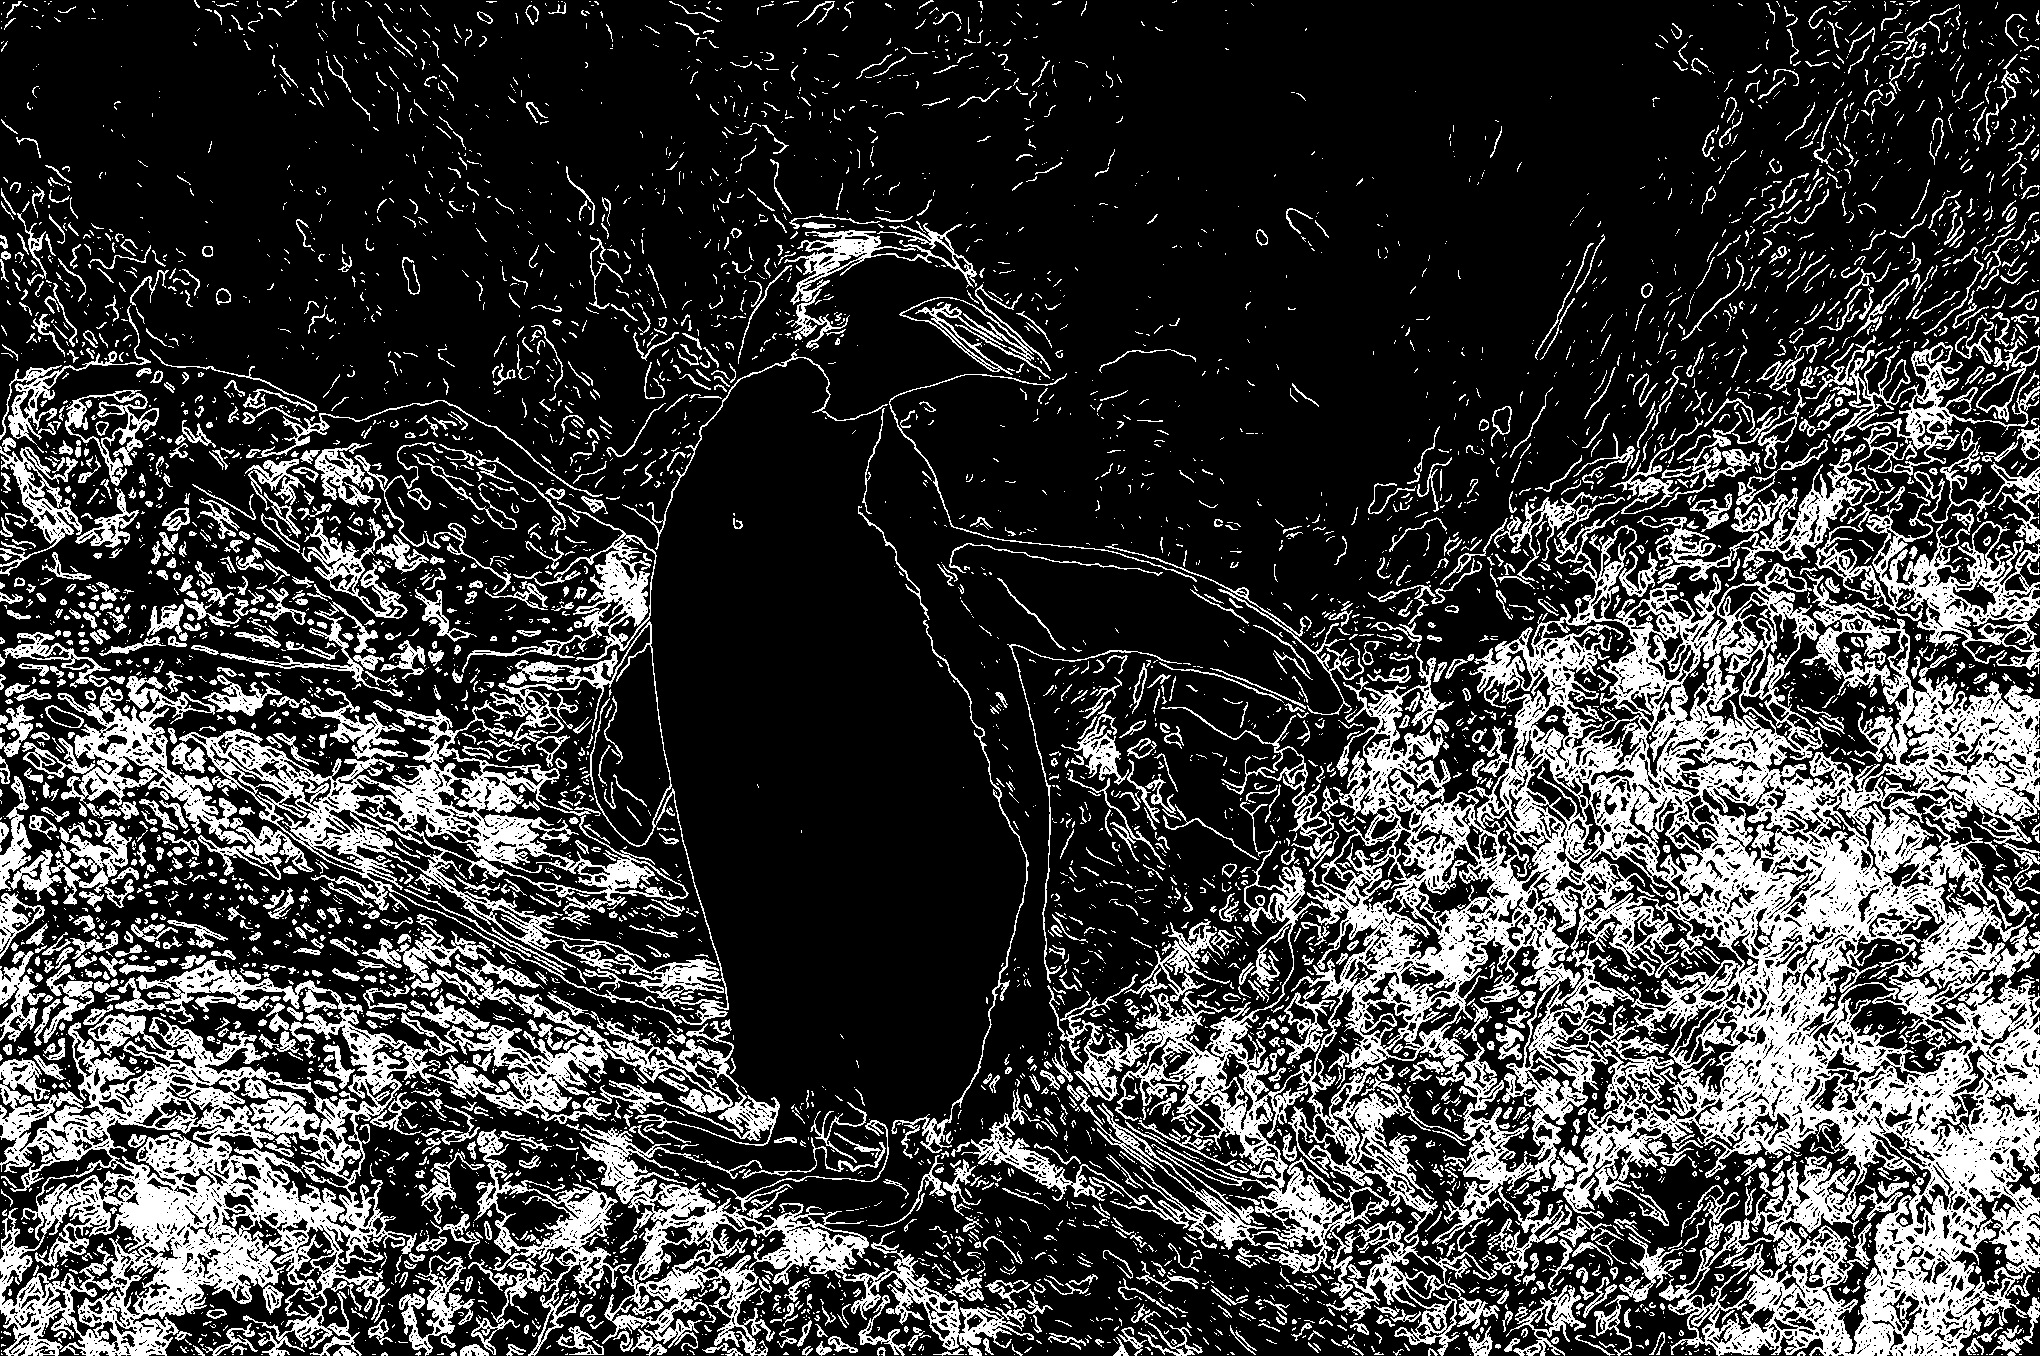
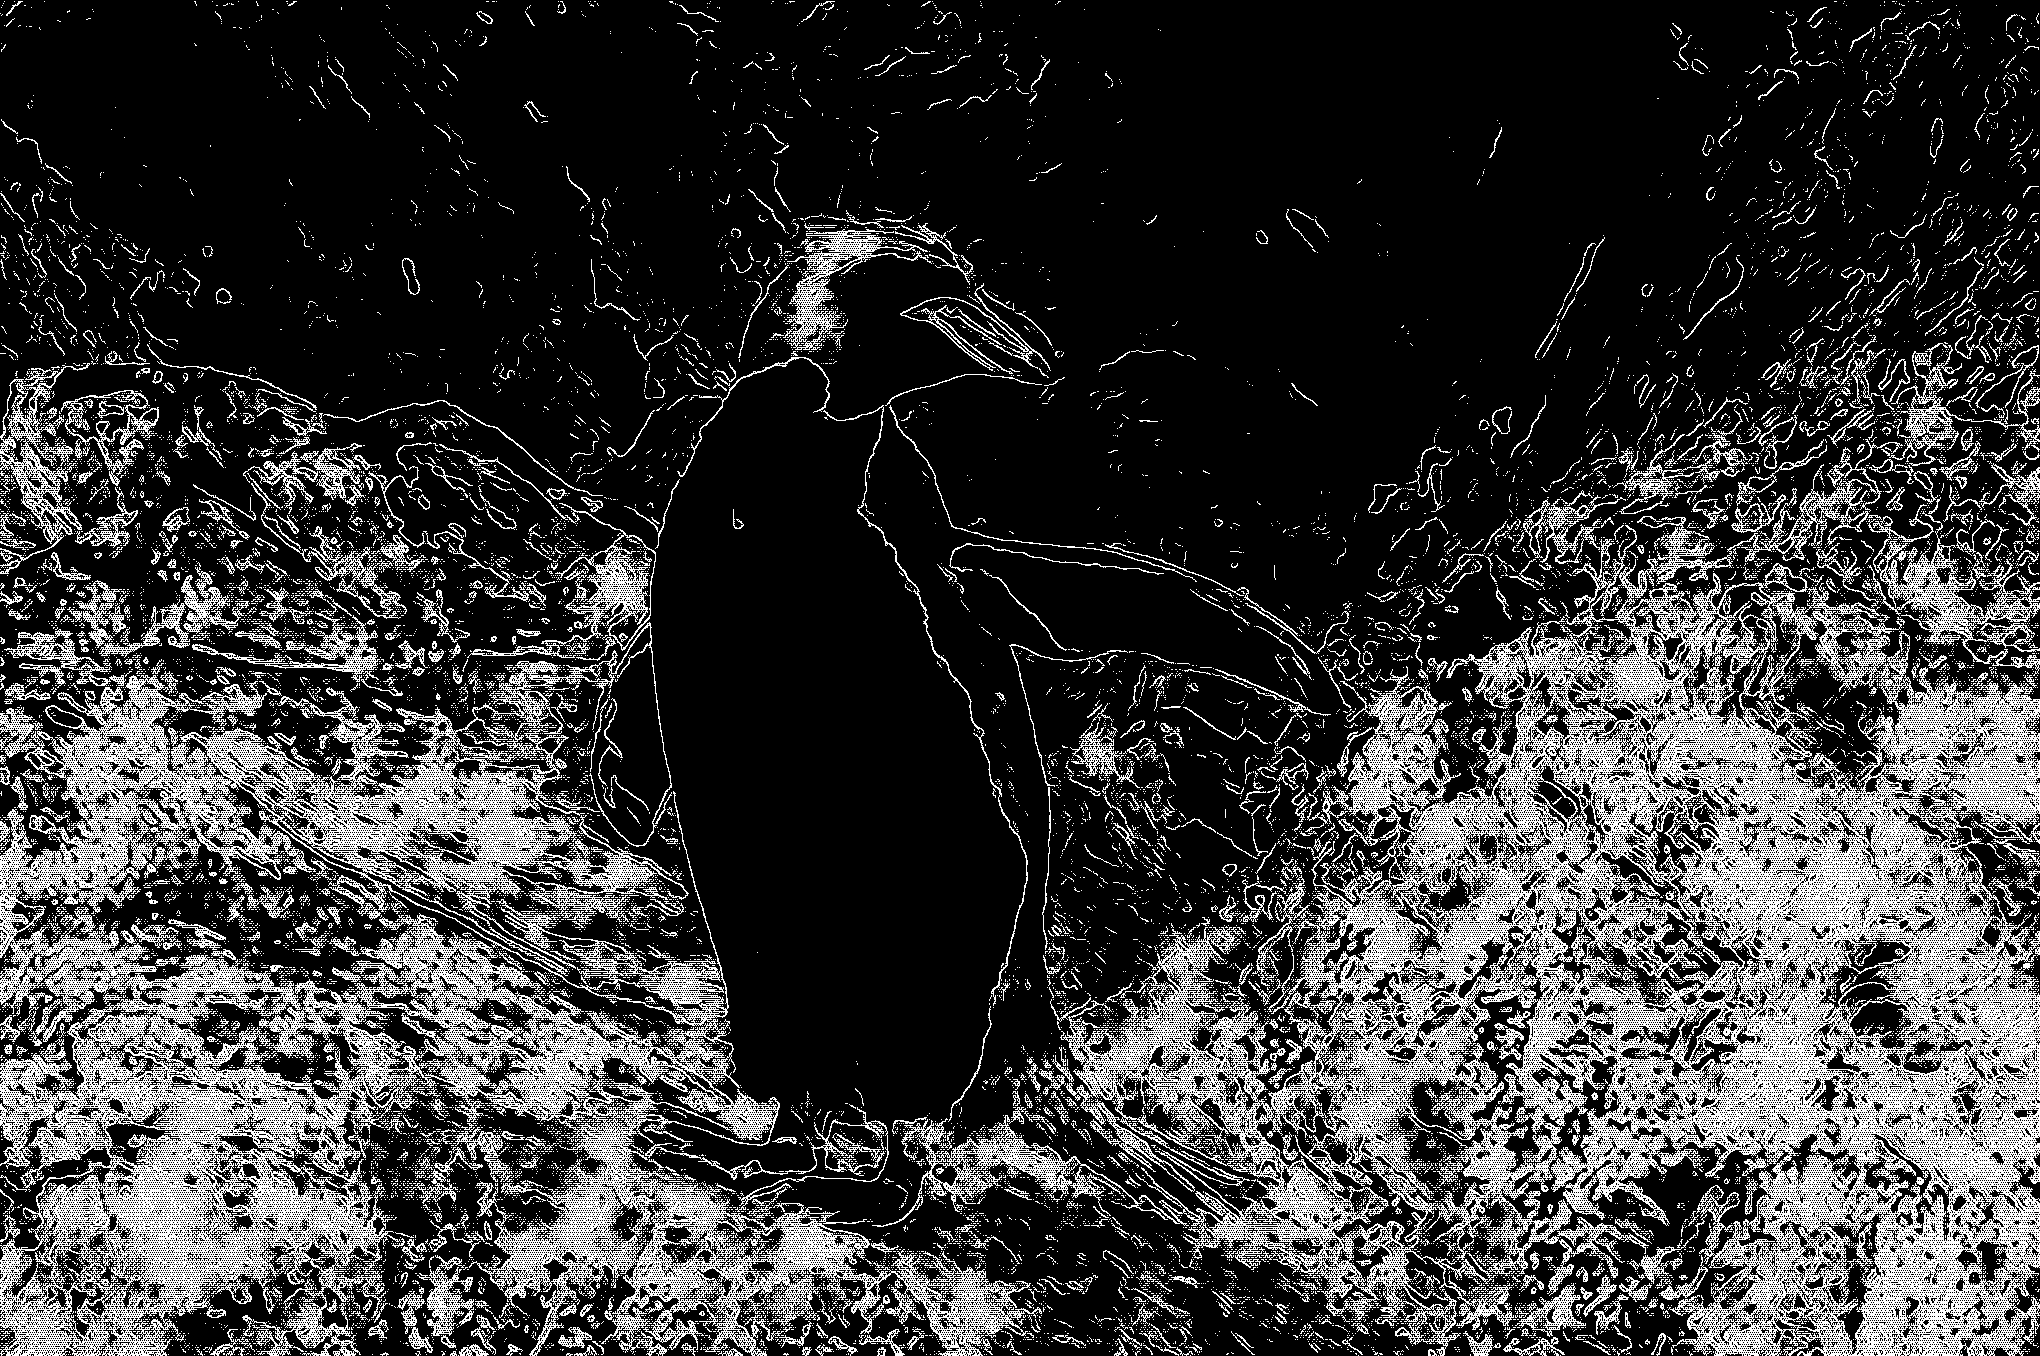
개선이 있긴 한데 너무 아쉬운 개선

diff --git a/train.py b/train.py
@@ -1,13 +1,37 @@
-import os
 import torch
 import torch.nn as nn
 import torch.optim as optim
 from torch.utils.data import DataLoader
+from torchvision import models
 
 from model import EdgeUNet
 from dataset import SRDataset
 
-# ---------- [새로 추가된 로스 함수] ----------
+# ---------- [새롭게 정의된 로스 함수들] ----------
+class PerceptualLoss(nn.Module):
+    def __init__(self):
+        super(PerceptualLoss, self).__init__()
+        vgg = models.vgg19(weights=models.VGG19_Weights.IMAGENET1K_V1).features
+        self.slice1 = nn.Sequential(*[vgg[x] for x in range(4)])   # relu1_2
+        self.slice2 = nn.Sequential(*[vgg[x] for x in range(9)])   # relu2_2
+        for param in self.parameters():
+            param.requires_grad = False
+
+    def forward(self, inputs, targets):
+        # 1채널 엣지를 3채널로 복사 (VGG 입력용)
+        inputs_3c = inputs.repeat(1, 3, 1, 1)
+        targets_3c = targets.repeat(1, 3, 1, 1)
+        
+        h_relu1_2 = self.slice1(inputs_3c)
+        h_relu2_2 = self.slice2(inputs_3c)
+        
+        h_target_relu1_2 = self.slice1(targets_3c)
+        h_target_relu2_2 = self.slice2(targets_3c)
+        
+        loss = nn.MSELoss()(h_relu1_2, h_target_relu1_2) + \
+               nn.MSELoss()(h_relu2_2, h_target_relu2_2)
+        return loss
+
 class DiceBCELoss(nn.Module):
     def __init__(self, smooth=1):
         super(DiceBCELoss, self).__init__()
@@ -15,17 +39,11 @@ class DiceBCELoss(nn.Module):
         self.smooth = smooth
 
     def forward(self, inputs, targets):
-        # 1. 픽셀별 일치도 (BCE)
         bce_loss = self.bce(inputs, targets)
-        
-        # 2. 선명한 얇은 선 추출 일치도 (Dice)
         inputs_flat = inputs.view(-1)
         targets_flat = targets.view(-1)
-        
         intersection = (inputs_flat * targets_flat).sum()                            
         dice_loss = 1 - (2.*intersection + self.smooth)/(inputs_flat.sum() + targets_flat.sum() + self.smooth)  
-        
-        # BCE와 Dice를 합산!
         return bce_loss + dice_loss
 # ---------------------------------------------
 
@@ -45,9 +63,13 @@ def train():
     
     print(f"총 데이터 개수: {len(dataset)}장, 1에포크당 배치 개수: {len(dataloader)}")
 
-    # [수정] BCE의 단점을 보완한 하이브리드 로스 채택
-    criterion = DiceBCELoss() 
+    # [수정] 복합 로스 함수 구성
+    criterion_dice = DiceBCELoss()
+    criterion_perceptual = PerceptualLoss().to(device)
+    
     optimizer = optim.Adam(model.parameters(), lr=0.001)
+    # [신규] 학습률 스케줄러 추가 (성능 향상 포인트)
+    scheduler = optim.lr_scheduler.ReduceLROnPlateau(optimizer, 'min', patience=5, factor=0.5)
 
     num_epochs = 100
     
@@ -62,8 +84,11 @@ def train():
             optimizer.zero_grad()
             outputs = model(lr_imgs)
             
-            # 하이브리드 로스로 오차 계산
-            loss = criterion(outputs, hr_imgs)
+            # [수정] 하이브리드 + 퍼셉추얼 로스로 학습 정교화
+            loss_dice = criterion_dice(outputs, hr_imgs)
+            loss_perceptual = criterion_perceptual(outputs, hr_imgs)
+            
+            loss = loss_dice + 0.1 * loss_perceptual
             
             loss.backward()
             optimizer.step()
@@ -74,7 +99,8 @@ def train():
                 print(f"Epoch [{epoch+1}/{num_epochs}], Batch [{batch_idx+1}/{len(dataloader)}], Loss (BCE+Dice): {loss.item():.6f}")
                 
         epoch_loss = running_loss / len(dataloader)
-        print(f"===> Epoch {epoch+1} 완료! 이번 에포크 평균 오차: {epoch_loss:.6f}")
+        scheduler.step(epoch_loss) # 스케줄러 업데이트
+        print(f"===> Epoch {epoch+1} 완료! 이번 에포크 평균 오차: {epoch_loss:.6f} / LR: {optimizer.param_groups[0]['lr']:.6f}")
         
         torch.save(model.state_dict(), f"edge_unet_epoch_{epoch+1}.pth")
         print(f"모델 체크포인트 edge_unet_epoch_{epoch+1}.pth 저장 완료!\n")

diff --git a/model.py b/model.py
@@ -1,5 +1,6 @@
 import torch
 import torch.nn as nn
+import torch.nn.functional as F
 
 class DoubleConv(nn.Module):
     """(Conv2D -> BatchNorm -> ReLU)를 2번 반복하는 U-Net의 기본 블록"""
@@ -21,36 +22,58 @@ class EdgeUNet(nn.Module):
     def __init__(self):
         super(EdgeUNet, self).__init__()
         
-        # [변경] 1채널 엣지 대신 4채널(RGB + Edge) 입력을 받도록 수정!
-        self.inc = DoubleConv(4, 32)
+        # [변경] 초기 채널을 64로 확장하고 더 깊은 층(512까지) 추가
+        self.inc = DoubleConv(4, 64)
         
-        self.down1 = nn.Sequential(nn.MaxPool2d(2), DoubleConv(32, 64))
-        self.down2 = nn.Sequential(nn.MaxPool2d(2), DoubleConv(64, 128))
+        self.down1 = nn.Sequential(nn.MaxPool2d(2), DoubleConv(64, 128))
+        self.down2 = nn.Sequential(nn.MaxPool2d(2), DoubleConv(128, 256))
+        self.down3 = nn.Sequential(nn.MaxPool2d(2), DoubleConv(256, 512))
         
-        self.up1 = nn.ConvTranspose2d(128, 64, kernel_size=2, stride=2)
-        self.conv_up1 = DoubleConv(128, 64)
+        self.up1 = nn.ConvTranspose2d(512, 256, kernel_size=2, stride=2)
+        self.conv_up1 = DoubleConv(512, 256) # cat(256 + 256)
         
-        self.up2 = nn.ConvTranspose2d(64, 32, kernel_size=2, stride=2)
-        self.conv_up2 = DoubleConv(64, 32)
+        self.up2 = nn.ConvTranspose2d(256, 128, kernel_size=2, stride=2)
+        self.conv_up2 = DoubleConv(256, 128) # cat(128 + 128)
+        
+        self.up3 = nn.ConvTranspose2d(128, 64, kernel_size=2, stride=2)
+        self.conv_up3 = DoubleConv(128, 64)   # cat(64 + 64)
         
         # 최종 출력은 항상 1채널 (흑백 엣지)
-        self.outc = nn.Conv2d(32, 1, kernel_size=1)
+        self.outc = nn.Conv2d(64, 1, kernel_size=1)
         self.sigmoid = nn.Sigmoid()
 
     def forward(self, x):
         x1 = self.inc(x)
         x2 = self.down1(x1)
         x3 = self.down2(x2)
+        x4 = self.down3(x3)
         
-        x_up1 = self.up1(x3)
-        x_up1_cat = torch.cat([x2, x_up1], dim=1) 
+        x_up1 = self.up1(x4)
+        # [수정] 스킵 커넥션과 크기 맞추기 (홀수 사이즈 대응)
+        diffY = x3.size()[2] - x_up1.size()[2]
+        diffX = x3.size()[3] - x_up1.size()[3]
+        x_up1 = F.pad(x_up1, [diffX // 2, diffX - diffX // 2,
+                        diffY // 2, diffY - diffY // 2])
+        x_up1_cat = torch.cat([x3, x_up1], dim=1) 
         x_up1_out = self.conv_up1(x_up1_cat)
         
         x_up2 = self.up2(x_up1_out)
-        x_up2_cat = torch.cat([x1, x_up2], dim=1)
+        diffY = x2.size()[2] - x_up2.size()[2]
+        diffX = x2.size()[3] - x_up2.size()[3]
+        x_up2 = F.pad(x_up2, [diffX // 2, diffX - diffX // 2,
+                        diffY // 2, diffY - diffY // 2])
+        x_up2_cat = torch.cat([x2, x_up2], dim=1)
         x_up2_out = self.conv_up2(x_up2_cat)
+
+        x_up3 = self.up3(x_up2_out)
+        diffY = x1.size()[2] - x_up3.size()[2]
+        diffX = x1.size()[3] - x_up3.size()[3]
+        x_up3 = F.pad(x_up3, [diffX // 2, diffX - diffX // 2,
+                        diffY // 2, diffY - diffY // 2])
+        x_up3_cat = torch.cat([x1, x_up3], dim=1)
+        x_up3_out = self.conv_up3(x_up3_cat)
         
-        residual = self.outc(x_up2_out)
+        residual = self.outc(x_up3_out)
         
         # [변경] 잔차 연결(+x)를 완전히 지우고 백지에서 날카롭게 선을 그리도록 유도!
         out = self.sigmoid(residual)
@@ -64,7 +87,7 @@ class EdgeUNet(nn.Module):
 if __name__ == "__main__":
     model = EdgeUNet()
     # 확인용 4채널 텐서
-    dummy_input = torch.randn(1, 4, 256, 256) 
+    dummy_input = torch.randn(1, 4, 128, 128) 
     output = model(dummy_input)
     print(f"입력 크기: {dummy_input.shape}")
     print(f"출력 크기: {output.shape}") 

diff --git a/test.py b/test.py
@@ -16,6 +16,23 @@ def calculate_psnr(img1, img2):
         return float('inf') 
     return 10 * math.log10(1.0 / mse)
 
+def calculate_metrics(pred, target, threshold=0.5):
+    # 이진화 처리 (0.5 기준)
+    pred_bin = (pred > threshold).float()
+    target_bin = (target > threshold).float()
+    
+    intersection = (pred_bin * target_bin).sum()
+    sum_pred = pred_bin.sum()
+    sum_target = target_bin.sum()
+    
+    # Dice Coefficient (F1-score)
+    dice = (2. * intersection) / (sum_pred + sum_target + 1e-8)
+    
+    # IoU (Jaccard Index)
+    iou = intersection / (sum_pred + sum_target - intersection + 1e-8)
+    
+    return dice.item(), iou.item()
+
 def test():
     device = torch.device("cuda" if torch.cuda.is_available() else "cpu")
     print(f"테스트 환경: {device}")
@@ -82,10 +99,13 @@ def test():
     psnr_nearest = calculate_psnr(lr_edge_tensor_only, hr_tensor)
     psnr_unet = calculate_psnr(output_sr_tensor, hr_tensor)
     
-    print("\n" + "=" * 50)
-    print(f"👉 단순 픽셀 윤곽선 PSNR : {psnr_nearest:.2f} dB")
-    print(f"👉 V2. 하이브리드(Dice) 모델 PSNR    : {psnr_unet:.2f} dB")
-    print("=" * 50)
+    dice_unet, iou_unet = calculate_metrics(output_sr_tensor, hr_tensor)
+    dice_lr, iou_lr = calculate_metrics(lr_edge_tensor_only, hr_tensor)
+    
+    print("\n" + "=" * 60)
+    print(f"👉 [Baseline]  PSNR: {psnr_nearest:.2f} dB | F1: {dice_lr:.4f} | IoU: {iou_lr:.4f}")
+    print(f"👉 [UNet Deep] PSNR: {psnr_unet:.2f} dB | F1: {dice_unet:.4f} | IoU: {iou_unet:.4f}")
+    print("=" * 60)
     
     to_pil = transforms.ToPILImage()
     
